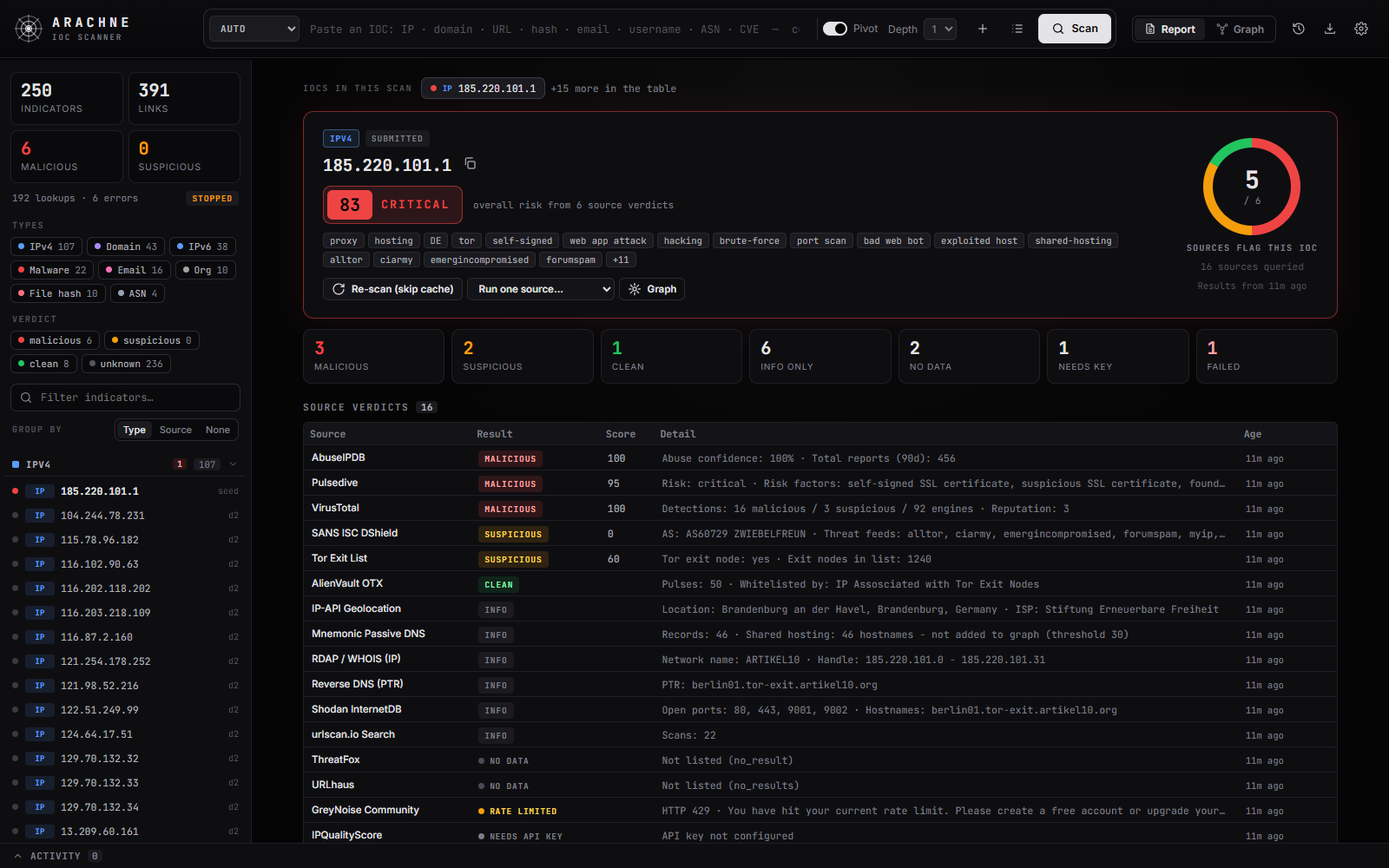
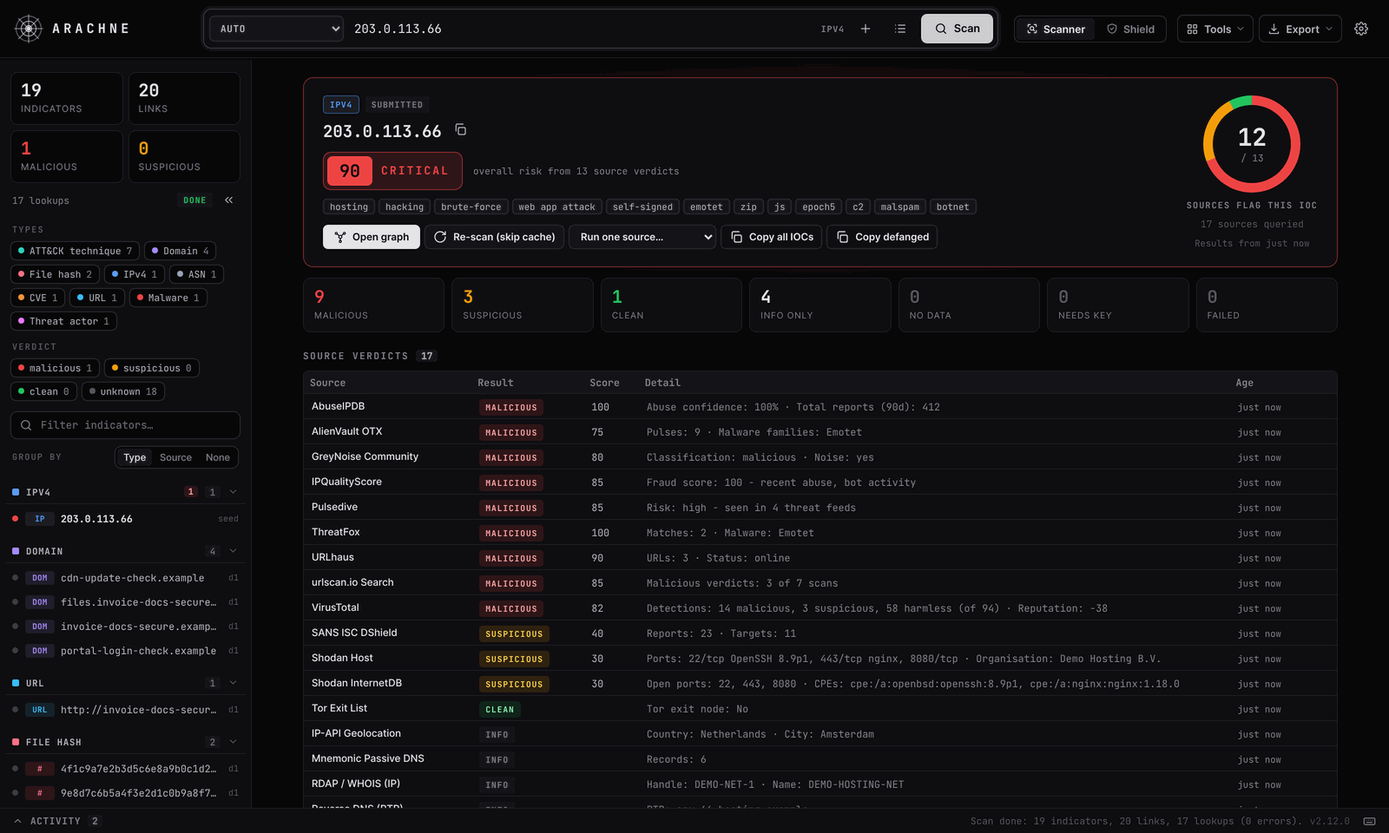
v2.12.1: README rewritten for the current app with a website section, new demo-data screenshots
Claude-Session: https://claude.ai/code/session_01NKL2YaGXC9zN1wBWDifaRF

diff --git a/static/index.html b/static/index.html
@@ -9,9 +9,9 @@
 <link rel="preconnect" href="https://fonts.googleapis.com">
 <link rel="preconnect" href="https://fonts.gstatic.com" crossorigin>
 <link href="https://fonts.googleapis.com/css2?family=Inter:wght@400;500;600;700&family=JetBrains+Mono:wght@400;500;700&display=swap" rel="stylesheet">
-<link rel="stylesheet" href="/css/app.css?v=2.12.0">
-<link rel="stylesheet" href="/css/intel.css?v=2.12.0">
-<script src="/js/i18n.js?v=2.12.0"></script>
+<link rel="stylesheet" href="/css/app.css?v=2.12.1">
+<link rel="stylesheet" href="/css/intel.css?v=2.12.1">
+<script src="/js/i18n.js?v=2.12.1"></script>
 <script src="https://cdn.jsdelivr.net/npm/cytoscape@3.30.2/dist/cytoscape.min.js"></script>
 <script src="https://cdn.jsdelivr.net/npm/layout-base@2.0.1/layout-base.js"></script>
 <script src="https://cdn.jsdelivr.net/npm/cose-base@2.2.0/cose-base.js"></script>
@@ -279,11 +279,11 @@
   </div>
 </div>
 
-<script src="/js/config.js?v=2.12.0"></script>
-<script src="/js/app.js?v=2.12.0"></script>
-<script src="/js/extract.js?v=2.12.0"></script>
-<script src="/js/rules.js?v=2.12.0"></script>
-<script src="/js/settings.js?v=2.12.0"></script>
-<script src="/js/intel.js?v=2.12.0"></script>
+<script src="/js/config.js?v=2.12.1"></script>
+<script src="/js/app.js?v=2.12.1"></script>
+<script src="/js/extract.js?v=2.12.1"></script>
+<script src="/js/rules.js?v=2.12.1"></script>
+<script src="/js/settings.js?v=2.12.1"></script>
+<script src="/js/intel.js?v=2.12.1"></script>
 </body>
 </html>

diff --git a/osint/__init__.py b/osint/__init__.py
@@ -1,3 +1,3 @@
 """ARACHNE - threat intelligence and OSINT pivoting."""
 
-VERSION = "2.12.0"
+VERSION = "2.12.1"

diff --git a/README.md b/README.md
@@ -4,30 +4,97 @@
 
 # ARACHNE
 
-Self-hosted threat intelligence and OSINT: one indicator in, one report from every threat-intel and OSINT source you've configured. When you want to dig further, it pivots to everything connected to it.
+**Threat intelligence and OSINT investigation platform.** One indicator in, one report from every threat-intel and OSINT source you use, with risk scoring, threat actor attribution and a pivot graph of everything connected to it.
 
+Run it yourself in a minute, or use it online at **[arachne-app.site](https://arachne-app.site)**.
+
+[![Use it online](https://img.shields.io/badge/use_it_online-arachne--app.site-0d0d10?style=for-the-badge&labelColor=050506&color=22c55e)](https://arachne-app.site)
 [![Python](https://img.shields.io/badge/python-3.10%2B-0d0d10?style=for-the-badge&logo=python&logoColor=e4e4e7&labelColor=050506)](https://www.python.org/)
 [![License](https://img.shields.io/badge/license-MIT-0d0d10?style=for-the-badge&labelColor=050506&color=5b9cf5)](LICENSE)
 
-<img src="docs/screenshots/report.png" alt="ARACHNE scan report for an IP address" width="100%">
+<img src="docs/screenshots/report.png" alt="ARACHNE scan report for an IP address: risk score 90 Critical, 12 of 13 sources flag it" width="100%">
 
 </div>
 
 ## About
 
-Give it an IP, domain, URL, email address, username, file hash, ASN or CVE. ARACHNE looks it up across every enabled OSINT and threat-intel source and builds a single scan report: an overall verdict, how many sources flag it, each source's verdict and score, and the full details behind them.
+Give ARACHNE an IP address, domain, URL, email address, username, file hash, ASN or CVE (defanged values like `hxxps://evil[.]com` are fine). It looks the indicator up across every enabled source at once and builds one scan report: a 0 to 100 risk score, how many sources flag it, each source's verdict and the full details behind them.
 
-The report also lists the related indicators the sources turned up (hostnames, IPs, emails, hashes, accounts). Scan any of them with one click, or switch on **Pivot** before scanning to look them up automatically, out to whatever depth you set. The **Graph** view maps it all as a web. I built it to stop copy-pasting the same IOC between VirusTotal, AbuseIPDB, Shodan and a dozen other tabs.
+From there you can pivot to everything the sources turned up (hostnames, IPs, hashes, malware, threat actors), see it all as a graph, find out which threat actors and ATT&CK techniques the scan points to, and export detection rules for your SIEM. I built it to stop copy-pasting the same IOC between VirusTotal, AbuseIPDB, Shodan and a dozen other tabs.
 
-It runs locally and only needs Python. There's nothing to install.
+The app has three parts, shown as tabs at the top:
 
-## How it works
+- **Scanner:** the IOC scan, its report and the pivot graph.
+- **Shield:** threat actor attribution, MITRE ATT&CK mapping, defences and a timeline for the scanned IOCs.
+- **Sandbox:** in-browser file and email analysis. Website only (see below).
 
-1. **Scan.** Paste one or more IOCs into the search bar and press **Scan**. The type is detected automatically. For a longer list, use the **bulk scan** button next to it to paste or upload a file.
-2. **Read the report.** Each enabled source is queried in parallel and the report fills in live: the overall verdict, how many sources flag the IOC, a table with every source's verdict, score and key detail, and the full findings from each one. Sources that need an API key you haven't added are listed separately, so you can see what you're missing.
-3. **Pivot (optional).** The report lists every related indicator the sources found. Click **Scan** on any of them, or **Pivot: scan all**, to look them up too, then open the **Graph** view to see how everything connects. To pivot automatically, switch on **Pivot** next to the search bar before scanning and pick a depth.
+## Use it online: arachne-app.site
 
-## Getting started
+<a href="https://arachne-app.site"><img src="docs/screenshots/website/report-preview-ai.png" alt="ARACHNE website: AI summary, community intel and a website preview next to the scan report" width="100%"></a>
+
+**[arachne-app.site](https://arachne-app.site)** is the hosted version of ARACHNE. It has everything in this repository with nothing to install, plus features that need a server and can't run in a local copy:
+
+| | |
+|---|---|
+| **Sandbox** | Drop a file (programs, Office documents, PDFs, scripts, archives, Android apps, OneNote, .eml / .msg emails) and get a risk score, detections, static analysis, decoded code, network indicators, YARA matches (bring your own rules too) and **"What can this file do?"**: the open capa rules matched against the program's machine code, with ATT&CK techniques. Everything runs in your browser: the file is never uploaded or run. |
+| **Email header analyser** | Paste an email's headers or drop the .eml / .msg: SPF, DKIM, DMARC and ARC results, lookalike domains, the delivery path hop by hop, and one click to scan every sender address and server. |
+| **Website preview** | Every URL and domain you scan is opened in Cloudflare's isolated browser, never in yours. You get a screenshot, the redirect chain, form fields and what the page can do (password or card forms, data sent to Telegram or Discord, obfuscated scripts, downloads), with a risk score that feeds the verdict. |
+| **ARACHNE Intel DB** | The site's own database of every indicator scanned on it and every open community blocklist (Feodo Tracker, IPsum, Phishing.Database and more): when ARACHNE first and last saw an indicator and each source's latest verdict. Who scanned what is never stored. PRO accounts can run **private scans** that stay out of the shared database. |
+| **AI summaries** | A plain-language summary of a scan report, written on request by Cloudflare Workers AI. |
+| **Accounts** | Sign in, keep scan history, saved cases and share links, with your API keys kept in your own browser (optionally locked with a password). New accounts are approved by an admin; some features are for PRO accounts (ask at [info@arachne-app.site](mailto:info@arachne-app.site)). |
+| **Admin portal** | For the site owner: users and PRO plans, usage and audit log, branding and themes, banners and maintenance, legal pages, and switches and limits for every feature. |
+
+<table>
+<tr>
+<td width="50%"><img src="docs/screenshots/website/sandbox-capabilities.png" alt="Sandbox: What can this file do? Capabilities found in a Windows program, with ATT&CK techniques"><br><b>Sandbox:</b> what a program can do, from its machine code</td>
+<td width="50%"><img src="docs/screenshots/website/sandbox-email-headers.png" alt="Email header analyser: SPF, DKIM, DMARC and ARC results and findings for a phishing email"><br><b>Email header analyser:</b> authentication results and lookalike domains</td>
+</tr>
+<tr>
+<td colspan="2"><img src="docs/screenshots/website/intel-db.png" alt="Intel DB window listing indicators with verdicts and community lists"><br><b>Intel DB:</b> every indicator scanned on the site and on the community lists</td>
+</tr>
+</table>
+
+## Features (local app and website)
+
+- **IOC scan report:** risk score and grade, a ring showing how many sources flag the IOC, a verdict table with one row per source and the full findings, filling in live as each lookup finishes.
+- **Every common indicator type:** IPv4/IPv6, domain, URL, email, username, file hash (MD5/SHA-1/SHA-256), ASN and CVE, plus threat actors, malware families and ATT&CK IDs. The type is detected for you and defanged values are refanged.
+- **Overall risk score:** every IOC gets a 0 to 100 score and a grade (Critical, High, Medium, Low, Clean) combined from the per-source verdicts.
+- **Bulk scans:** paste, upload or drop up to 500 IOCs and get one triage report sorted by risk, with a filter and one-click copy of the flagged IOCs.
+- **Extract IOCs from text:** paste a phishing email (headers too), a threat report or logs and ARACHNE pulls out every indicator, defanged ones included. Private IPs and well-known sites start unticked.
+- **Arachne Shield:** threat actor attribution with a confidence level per IOC, the scan mapped onto the MITRE ATT&CK matrix (with a Navigator layer download), the mitigations and log sources that matter most against it, a timeline, and actor profiles you can compare side by side.
+- **Threat library:** profiles for ~1,100 threat actors, ~840 malware families and tools, and ATT&CK campaigns, techniques and mitigations, offline.
+- **Pivot graph:** scan related indicators one at a time, all at once, or automatically to a set depth, then see everything as a web with malicious and suspicious nodes highlighted. A noise filter keeps CDNs and big providers out.
+- **Detection rules:** turn a scan into Sigma, YARA, Suricata and Snort rules and Splunk (SPL), Microsoft Sentinel (KQL) and Elastic (KQL) queries.
+- **Exports:** PDF and HTML reports, STIX 2.1 bundle, CSV of source verdicts, JSON, plain or defanged IOC lists, and a PNG of the graph.
+- **History:** every scan is saved so you can reopen it and keep pivoting. Long scans keep running in the background, and **Stop all** ends them.
+- **11 languages:** English, Spanish, German, French, Portuguese, Italian, Dutch, Polish, Japanese, Chinese and Korean.
+- **Phone-friendly** layout with a bottom bar, and **keyboard shortcuts** for everything on desktop (press **?**).
+- **Your keys stay yours:** API keys live on your machine (or, on the website, in your browser), never in the repo.
+
+## Screenshots
+
+<table>
+<tr>
+<td width="50%"><img src="docs/screenshots/graph.png" alt="Pivot graph around a malicious IP address"><br><b>Graph:</b> everything connected to the scan</td>
+<td width="50%"><img src="docs/screenshots/shield.png" alt="Arachne Shield attribution tab"><br><b>Shield:</b> who the IOCs point to, and how sure that is</td>
+</tr>
+<tr>
+<td><img src="docs/screenshots/shield-attack.png" alt="MITRE ATT&CK matrix for the scan"><br><b>Shield:</b> the scan on the ATT&CK matrix</td>
+<td><img src="docs/screenshots/library-profile.png" alt="Threat library profile of Wizard Spider"><br><b>Threat library:</b> actor profiles and capabilities</td>
+</tr>
+<tr>
+<td><img src="docs/screenshots/bulk.png" alt="Bulk scan triage report sorted by risk"><br><b>Bulk scan:</b> triage sorted by risk</td>
+<td><img src="docs/screenshots/extract.png" alt="Extract IOCs from a pasted phishing email"><br><b>Extract from text:</b> IOCs out of an email or report</td>
+</tr>
+<tr>
+<td><img src="docs/screenshots/rules.png" alt="Detection rules window with a Sigma rule"><br><b>Detection rules:</b> Sigma, YARA, Suricata, Snort and SIEM queries</td>
+<td align="center"><img src="docs/screenshots/mobile.png" alt="Scan report on a phone" width="45%"><br><b>Phones:</b> the full app on a small screen</td>
+</tr>
+</table>
+
+All screenshots use made-up demo data: documentation IP ranges and `.example` domains.
+
+## Run it locally
 
 ```bash
 git clone https://github.com/luke-mckeever/ARACHNE.git
@@ -35,49 +102,29 @@ cd ARACHNE
 python server.py
 ```
 
-The UI opens at `http://127.0.0.1:8777`. On Windows you can double-click `start.bat` instead, and on Linux/macOS run `./start.sh`.
+It only needs Python 3.10 or newer. There's nothing to install. The UI opens at `http://127.0.0.1:8777`. On Windows you can double-click `start.bat` instead, and on Linux/macOS run `./start.sh`.
 
 To shut it down, press Ctrl+C in its window, or double-click `stop.bat` (Windows) / run `./stop.sh` (Linux/macOS). The stop script finds the server through `data/arachne.pid`; if you started it on another port, pass the port: `stop.bat 9000` or `./stop.sh 9000`.
 
 Optional flags: `--port 9000` and `--no-browser`.
 
+### How it works
+
+1. **Scan.** Paste one or more IOCs into the search bar and press **Scan**. For a longer list, use the **bulk scan** button next to it (or press **B**), or **X** to extract IOCs from text.
+2. **Read the report.** Each enabled source is queried in parallel and the report fills in live. Sources that need an API key you haven't added are listed separately, so you can see what you're missing.
+3. **Dig further.** The report lists every related indicator. Click **Scan** on any of them, or **Pivot: scan all**, then **Open graph** to see how everything connects. Switch to **Shield** for attribution and ATT&CK, or **Export** for reports and detection rules.
+
 ### API keys
 
 Add your API keys under **Settings → API Keys**. A lot of sources work without one, but VirusTotal, AbuseIPDB and abuse.ch (MalwareBazaar, URLhaus and ThreatFox) are where most of the useful verdicts come from. Keys are saved to `data/settings.json`, which is git-ignored.
 
-So you don't have to paste them in again on a new machine or after a fresh clone, use **Export keys** to save them to `arachne-api-keys.json` and **Import keys** to load them back. Import only adds or updates keys; it never removes any. The export is plain text, so store it somewhere safe outside the repo folder (exported key files are git-ignored as a backstop).
-
-## Screenshots
-
-| | |
-|---|---|
-| ![Pivot graph](docs/screenshots/groups-collapsed.png) **Graph view:** the pivot web | ![Intel panel](docs/screenshots/intel.png) **Graph view:** per-node intel |
-| ![Relations](docs/screenshots/relations.png) **Graph view:** relations | ![Username scan](docs/screenshots/username.png) **Username scan** |
-| ![Module settings](docs/screenshots/settings-modules.png) **Settings:** modules | ![Scan history](docs/screenshots/history.png) **History:** running scans and Stop all |
-
-## Features
-
-- **IOC scan report:** a headline risk score and grade, a detection ring (how many sources flag the IOC), a verdict table with one row per source, and detailed findings. Results stream in live as each lookup finishes.
-- **Overall risk score:** every IOC gets a 0–100 score and a grade (Critical, High, Medium, Low, Clean) combined from the per-source verdicts. Any malicious verdict sets a floor of 50 (suspicious: 25), and the share of sources that flag the IOC fills the rest.
-- **Extract IOCs from text:** paste a phishing email (headers too), a threat report, logs or a web page, or load the file, and ARACHNE pulls out every IP, domain, URL, email, file hash, CVE and ASN in it, defanged ones included. Duplicates are merged, private IPs, well-known sites (Google, Microsoft, w3.org…) and anything on your own "always leave out" list start unticked, and you scan the rest in one bulk scan. Press **X**, or use the **Extract from text** tab of the bulk scan dialog.
-- **Bulk scanning:** paste, upload or drop a list of up to 500 IOCs (defanged values are fine). You get a combined triage report sorted by risk, with a filter, a "medium and above" toggle and one-click copy of the flagged IOCs.
-- **Freshness:** every source result shows how old it is and whether it came from the cache. **Re-scan (skip cache)** runs every source again, for one IOC or a whole bulk scan.
-- **Pivoting when you want it:** scan related indicators one at a time or all at once from the report, or turn on auto-pivot with configurable depth and node limits. A noise filter stops it crawling through CDNs and big providers.
-- **Scanner and Shield:** the two tabs at the top. Scanner is the IOC scan and its report; Shield (threat actor attribution, ATT&CK, defences, timeline) is open from the start.
-- **Graph view** (the **Open graph** button on every scan report, or **V**): everything found, mapped as a web, with malicious and suspicious nodes highlighted. Large sets of one type (e.g. 40 domains on one IP) collapse into a single box.
-- **API key import/export:** back up your keys to a file and load them back in one click.
-- **Settings for nearly everything:** turn modules on or off, set rate limits, add custom username sites and lookup links, change colours, set a proxy, and more.
-- **Exports:** scan report as PDF (via the browser's Save as PDF) or HTML, a STIX 2.1 bundle (an indicator per IOC with the risk score as confidence, plus linked malware families) for TIPs and SIEMs, per-source verdicts CSV, JSON, a plain IOC list or a PNG of the graph.
-- **Detection rules:** Export > Detection rules turns a scan's indicators into Sigma, YARA, Suricata and Snort rules, and Splunk (SPL), Microsoft Sentinel (KQL) and Elastic (KQL) queries, to copy or download. Values are checked and escaped for each rule language; titles and messages show them defanged. Run `node tests/rules.test.mjs` to test the generator.
-- **Arachne Shield (threat actors and MITRE ATT&CK):** the **Shield** tab, next to Report and Graph (or press **I**), is a page for attribution and capability, all about the scanned IOCs. **Attribution** lists every IOC in the scan with the threat actors the sources tie it to and a confidence (High, Medium, Low or Not attributed): only what the sources said about the IOC itself counts, and malware many actors share (Cobalt Strike, Mimikatz, remote access tools) attributes nothing on its own. A "How Shield works" summary sits at the bottom of that tab. **ATT&CK** maps the scan onto the ATT&CK matrix, with lenses for the reported techniques or one actor, malware or campaign (copy the technique IDs or download an ATT&CK Navigator layer). **Defend** ranks the MITRE mitigations, log sources and detection strategies that matter most against the scan, with a copyable checklist. **Timeline** puts every date the sources reported in order (first seen, registered, campaign activity). Actor profiles show capabilities, how the scan points to the actor, similar actors and a side-by-side **Compare**. **Report** downloads it all as Markdown. The report shows the same evidence for one IOC as **Threat context**. You can also scan an actor, family or ATT&CK ID (`T1059.001`, `G0016`, `S0154`, `C0022`) directly. Works offline: the data ships with ARACHNE (see [Threat intel data](#threat-intel-data)).
-- **Threat library:** **Tools > Threat library** in the top bar (or **T**) opens profile pages for ~1,100 threat actors, ~840 malware families and tools, ATT&CK campaigns, techniques and mitigations, separate from any scan.
-- **Saved scans:** every scan is saved, so you can reopen it later and keep pivoting.
-- **Languages:** the interface comes in English, Spanish, German, French, Portuguese, Italian, Dutch, Polish, Japanese, Chinese and Korean. It follows your browser's language; change it under **Settings → Appearance → Interface language**.
-- **Stop all scans:** scans keep running even if no tab is showing them. **History** highlights any that are still running and has a **Stop all** button, and the same switch lives under **Settings → Network & cache**.
+To move your keys to a new machine or a fresh clone, use **Export keys** to save them to `arachne-api-keys.json` and **Import keys** to load them back. Import only adds or updates keys; it never removes any. The export is plain text, so store it somewhere safe outside the repo folder (exported key files are git-ignored as a backstop).
 
 ## Sources
 
-**No key needed:** MITRE ATT&CK & threat actors (built in, offline), DNS, RDAP/WHOIS, crt.sh, Wayback Machine, Mnemonic passive DNS, Shodan InternetDB, ip-api, SANS ISC, GreyNoise Community, Tor exit list, AlienVault OTX, urlscan.io, OpenPhish, CIRCL hashlookup, RIPEstat, NVD/CISA KEV, Gravatar, GitHub, Keybase, Hacker News, LeakCheck, and a username check across ~40 sites.
+**No key needed:** MITRE ATT&CK and threat actors (built in, offline), DNS, RDAP/WHOIS, crt.sh, Wayback Machine, Mnemonic passive DNS, Shodan InternetDB, ip-api, SANS ISC, Tor exit list, AlienVault OTX, OpenPhish, CIRCL hashlookup, RIPEstat, NVD/CISA KEV, Gravatar, GitHub, Keybase, Hacker News, LeakCheck, and a username check across ~40 sites.
+
+**Free key that adds more:** GreyNoise Community, urlscan.io, Pulsedive, IPinfo, OTX, NVD and GitHub work without a key but give more (or more requests) with one.
 
 **API key:** VirusTotal, AbuseIPDB, MalwareBazaar / URLhaus / ThreatFox (one abuse.ch key), Shodan, IPQualityScore, SecurityTrails, Hunter.io, Have I Been Pwned, EmailRep, Google Safe Browsing, Hybrid Analysis.
 
@@ -85,16 +132,13 @@ Every module has a **Test** button in Settings, so you can check a key works bef
 
 ## Usage tips
 
-- Click a row in the source verdict table to jump to that source's findings, or ↻ to re-run it.
-- Click any indicator in the left list to open its report. Press **V** to switch between the report and the graph.
-- In the graph, double-click a node to pivot on it. Right-click for more options, such as running a single module or opening the value in VirusTotal or Shodan. Click a group box to collapse or expand it.
-- Use **Clear all** in the graph toolbar to start fresh. The old scan stays in History.
+- Click a row in the source verdict table to jump to that source's findings, or ↻ to re-run it. **Re-scan (skip cache)** runs every source again.
+- Click any indicator in the left list to open its report. Press **V** to switch between the report and the graph, **I** for Shield, **T** for the threat library and **M** to fold the side panel away.
+- In the graph, double-click a node to pivot on it. Right-click for more options, such as running a single module or opening the value in VirusTotal or Shodan.
 - With auto-pivot, depth 1 is usually enough. Depth 2+ on a busy IP will hit the node limit quickly.
-- The free VirusTotal tier is 4 requests/min, so VT results come in slowly. That's expected.
-- If the app feels sluggish, check **History** for scans still running in the background (big auto-pivots can take a while) and use **Stop all**.
-- archive.org's URL index is often slow or overloaded. When it doesn't answer, the Wayback Machine module still shows the first and last capture and says why the full URL list is missing.
-- Hunter.io's free plan returns 10 emails per domain; the module adapts to your plan's limit and shows e.g. "10 of 4218".
-- ThreatFox only flags exact matches: a URL on the same host, or the same IP on any port. Domains that merely contain the IOC (e.g. `gillzmentortest.com` for `test.com`) are ignored.
+- The free VirusTotal tier is 4 requests a minute, so VT results come in slowly. That's expected.
+- If the app feels sluggish, check **Tools → Scan history** for scans still running in the background and use **Stop all**.
+- ThreatFox only flags exact matches: a URL on the same host, or the same IP on any port.
 
 ## Adding a module
 
@@ -123,17 +167,17 @@ It shows up in the UI automatically. To make its key editable in Settings, add t
 
 ## Translations
 
-The interface text is translated in the browser by `static/js/i18n.js`, using one dictionary per language in `static/i18n/<code>.json` (English phrase → translation). Data from sources is never translated. To add or fix a phrase, edit the dictionaries; `{name}` placeholders and `<0>…</0>` tags must stay as they are. To find text that isn't translated yet, run `localStorage.setItem("arachne.i18n.debug","1")` in the browser console, reload, use the app, then run `I18N.missing()`. Run `python tools/check_i18n.py` before committing: it checks that every language has the same phrases and placeholders.
+The interface text is translated in the browser by `static/js/i18n.js`, using one dictionary per language in `static/i18n/<code>.json` (English phrase → translation). Data from sources is never translated. To add or fix a phrase, edit the dictionaries; `{name}` placeholders and `<0>…</0>` tags must stay as they are. To find text that isn't translated yet, run `localStorage.setItem("arachne.i18n.debug","1")` in the browser console, reload, use the app, then run `I18N.missing()`. Run `python tools/check_i18n.py` before committing: it checks that every language has the same phrases and placeholders. Run `node tests/rules.test.mjs` to test the detection rules generator.
 
 ## Notes
 
 - Everything is passive by default. The one module that connects to the target directly (HTTP Probe) only runs if you enable active modules in Settings.
-- The server binds to localhost and has no authentication, so don't expose it publicly.
+- The local server binds to localhost and has no accounts or authentication, so don't expose it publicly. For a shared, signed-in version, use [arachne-app.site](https://arachne-app.site).
 - Only use this for lawful purposes, and stick to each provider's terms of service.
 
 ## Versions
 
-ARACHNE uses version numbers like `v2.3.0` (major.minor.patch). The current version is shown at the bottom right of the app, every release is tagged in git, and [CHANGELOG.md](CHANGELOG.md) lists what changed in each one.
+ARACHNE uses version numbers like `v2.12.1` (major.minor.patch). The current version is shown at the bottom right of the app, and [CHANGELOG.md](CHANGELOG.md) lists what changed in each release.
 
 ## License
 

diff --git a/CHANGELOG.md b/CHANGELOG.md
@@ -8,6 +8,12 @@ All notable changes to ARACHNE. Versions follow [Semantic Versioning](https://se
 
 Each release is tagged in git as `vX.Y.Z`. The running version is shown at the bottom right of the app and printed when the server starts.
 
+## [2.12.1] - 2026-11-17
+
+### Changed
+- **README rewritten** for the current app: Scanner · Shield · Sandbox, Shield attribution and ATT&CK, bulk scans, extracting IOCs from text, detection rules, threat library, languages and phones. A new section near the top introduces the website, [arachne-app.site](https://arachne-app.site), and what it adds (Sandbox with file, email header, YARA and capability checks, website previews, the Intel DB and private scans, AI summaries, accounts and the admin portal).
+- **New screenshots** in `docs/screenshots/`, taken with made-up demo data (documentation IP ranges and `.example` domains); website screenshots in `docs/screenshots/website/`. The old, out-of-date screenshots were removed. No change to how the app works.
+
 ## [2.12.0] - 2026-11-16
 
 ### Changed
